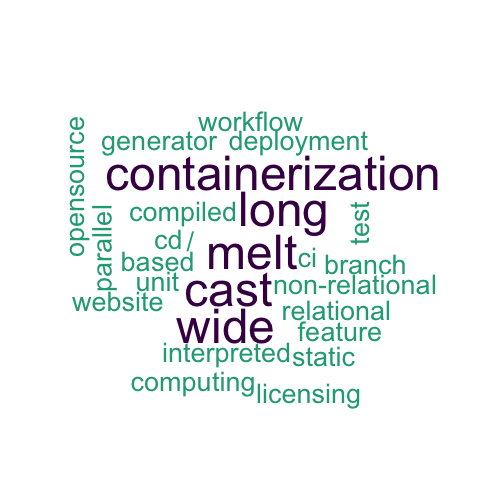
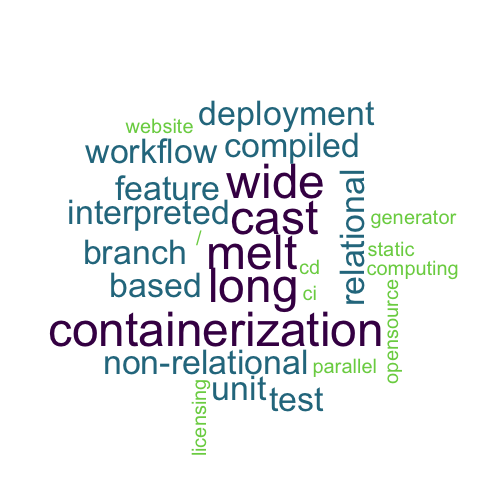
viridis color for survey analysis, some more git stuff

Changed region(s): [[0.0893, 0.2083, 0.9226, 0.9226]]

diff --git a/docs/block_1_session_4_git_101.html b/docs/block_1_session_4_git_101.html
@@ -29,17 +29,14 @@ class:center,middle
 Today's goal: be able to clear [tasks 1-3](https://github.com/h4sci/h4sci-tasks/issues)
 
 
+
+&lt;div class="my-footer"&gt;&lt;span&gt;&lt;div class="footer-text" align="right"&gt;"Hacking for Social Sciences" by Dr. Matthias Bannert is licensed under &lt;a href="https://creativecommons.org/licenses/by-nc-sa/4.0/?ref=chooser-v1"&gt;CC BY-NC-SA 4.0&lt;/a&gt;&lt;/div&gt;&lt;/span&gt;&lt;/div&gt; 
+
+
 ---
 
 
-class:center,middle
 
-**Wait.** &lt;/br&gt;
-Are you able to set up a working RSA key pair based auth? &lt;/br&gt;
-If yes, move on. &lt;/br&gt;
-If not, watch [Connect to Remote Repository Using an RSA Key Pair](https://www.youtube.com/watch?v=oLEhNj17vVI)
-
----
 
 
 class:center,middle
@@ -47,12 +44,19 @@ class:center,middle
 ## What is git ? 
 
 
+
+&lt;div class="my-footer"&gt;&lt;span&gt;&lt;div class="footer-text" align="right"&gt;"Hacking for Social Sciences" by Dr. Matthias Bannert is licensed under &lt;a href="https://creativecommons.org/licenses/by-nc-sa/4.0/?ref=chooser-v1"&gt;CC BY-NC-SA 4.0&lt;/a&gt;&lt;/div&gt;&lt;/span&gt;&lt;/div&gt; 
+
 ---
 
 
 class:center,middle
 
 &gt; Git is a decentralized version control system.  
+
+
+
+&lt;div class="my-footer"&gt;&lt;span&gt;&lt;div class="footer-text" align="right"&gt;"Hacking for Social Sciences" by Dr. Matthias Bannert is licensed under &lt;a href="https://creativecommons.org/licenses/by-nc-sa/4.0/?ref=chooser-v1"&gt;CC BY-NC-SA 4.0&lt;/a&gt;&lt;/div&gt;&lt;/span&gt;&lt;/div&gt; 
 
 ---
 
@@ -63,6 +67,9 @@ class:center,middle
 &lt;img src="decentralized_1.png"&gt;
 &lt;/br&gt;
 
+
+
+&lt;div class="my-footer"&gt;&lt;span&gt;&lt;div class="footer-text" align="right"&gt;"Hacking for Social Sciences" by Dr. Matthias Bannert is licensed under &lt;a href="https://creativecommons.org/licenses/by-nc-sa/4.0/?ref=chooser-v1"&gt;CC BY-NC-SA 4.0&lt;/a&gt;&lt;/div&gt;&lt;/span&gt;&lt;/div&gt; 
 
 ---
 
@@ -77,6 +84,8 @@ class:center,middle
 
 
 
+&lt;div class="my-footer"&gt;&lt;span&gt;&lt;div class="footer-text" align="right"&gt;"Hacking for Social Sciences" by Dr. Matthias Bannert is licensed under &lt;a href="https://creativecommons.org/licenses/by-nc-sa/4.0/?ref=chooser-v1"&gt;CC BY-NC-SA 4.0&lt;/a&gt;&lt;/div&gt;&lt;/span&gt;&lt;/div&gt; 
+
 ---
 
 
@@ -84,6 +93,9 @@ class:center,middle
 
 &lt;img src="decentralized_3.png"&gt;
 
+
+
+&lt;div class="my-footer"&gt;&lt;span&gt;&lt;div class="footer-text" align="right"&gt;"Hacking for Social Sciences" by Dr. Matthias Bannert is licensed under &lt;a href="https://creativecommons.org/licenses/by-nc-sa/4.0/?ref=chooser-v1"&gt;CC BY-NC-SA 4.0&lt;/a&gt;&lt;/div&gt;&lt;/span&gt;&lt;/div&gt; 
 
 ---
 
@@ -94,12 +106,32 @@ class:center,middle
 &lt;img src="decentralized_4.png"&gt;
 
 
+&lt;div class="my-footer"&gt;&lt;span&gt;&lt;div class="footer-text" align="right"&gt;"Hacking for Social Sciences" by Dr. Matthias Bannert is licensed under &lt;a href="https://creativecommons.org/licenses/by-nc-sa/4.0/?ref=chooser-v1"&gt;CC BY-NC-SA 4.0&lt;/a&gt;&lt;/div&gt;&lt;/span&gt;&lt;/div&gt; 
+
 ---
 
 
 ## Basic Git Workflow: push
 
 &lt;img src="decentralized.png"&gt;
+
+
+&lt;div class="my-footer"&gt;&lt;span&gt;&lt;div class="footer-text" align="right"&gt;"Hacking for Social Sciences" by Dr. Matthias Bannert is licensed under &lt;a href="https://creativecommons.org/licenses/by-nc-sa/4.0/?ref=chooser-v1"&gt;CC BY-NC-SA 4.0&lt;/a&gt;&lt;/div&gt;&lt;/span&gt;&lt;/div&gt; 
+
+---
+
+class:center,middle
+
+**Wait.** &lt;/br&gt;
+Are you able to set up a working RSA key pair based auth? &lt;/br&gt;
+If yes, move on. &lt;/br&gt;
+If not, watch [Connect to Remote Repository Using an RSA Key Pair](https://www.youtube.com/watch?v=oLEhNj17vVI)
+
+
+
+&lt;div class="my-footer"&gt;&lt;span&gt;&lt;div class="footer-text" align="right"&gt;"Hacking for Social Sciences" by Dr. Matthias Bannert is licensed under &lt;a href="https://creativecommons.org/licenses/by-nc-sa/4.0/?ref=chooser-v1"&gt;CC BY-NC-SA 4.0&lt;/a&gt;&lt;/div&gt;&lt;/span&gt;&lt;/div&gt; 
+
+---
     </textarea>
 <style data-target="print-only">@media screen {.remark-slide-container{display:block;}.remark-slide-scaler{box-shadow:none;}}</style>
 <script src="https://remarkjs.com/downloads/remark-latest.min.js"></script>
